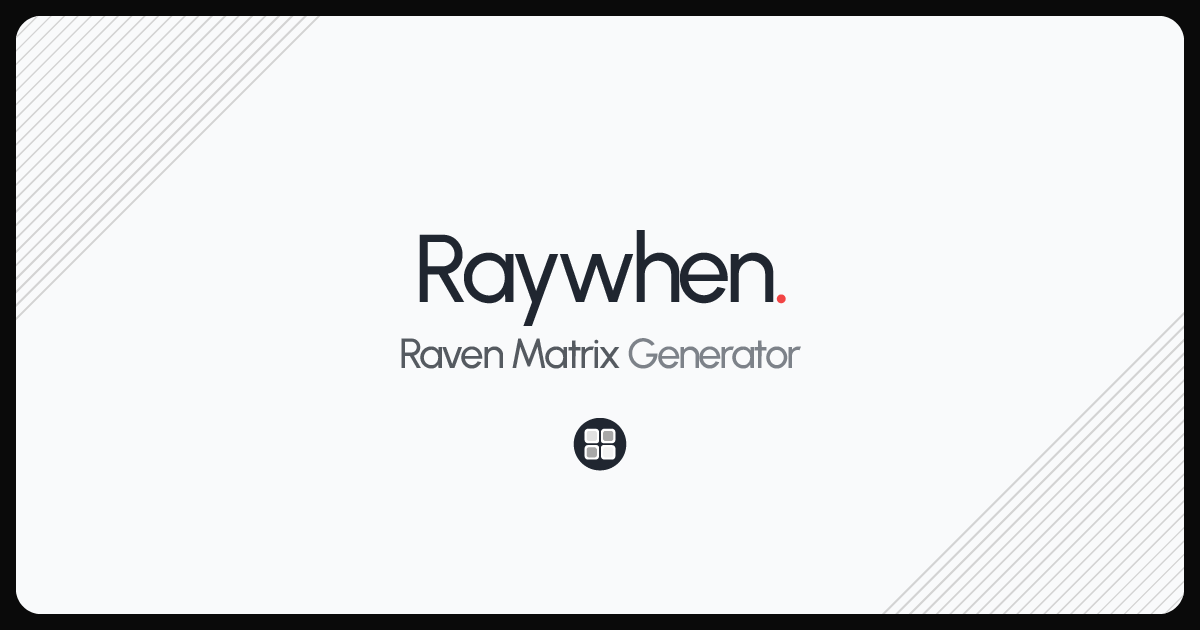
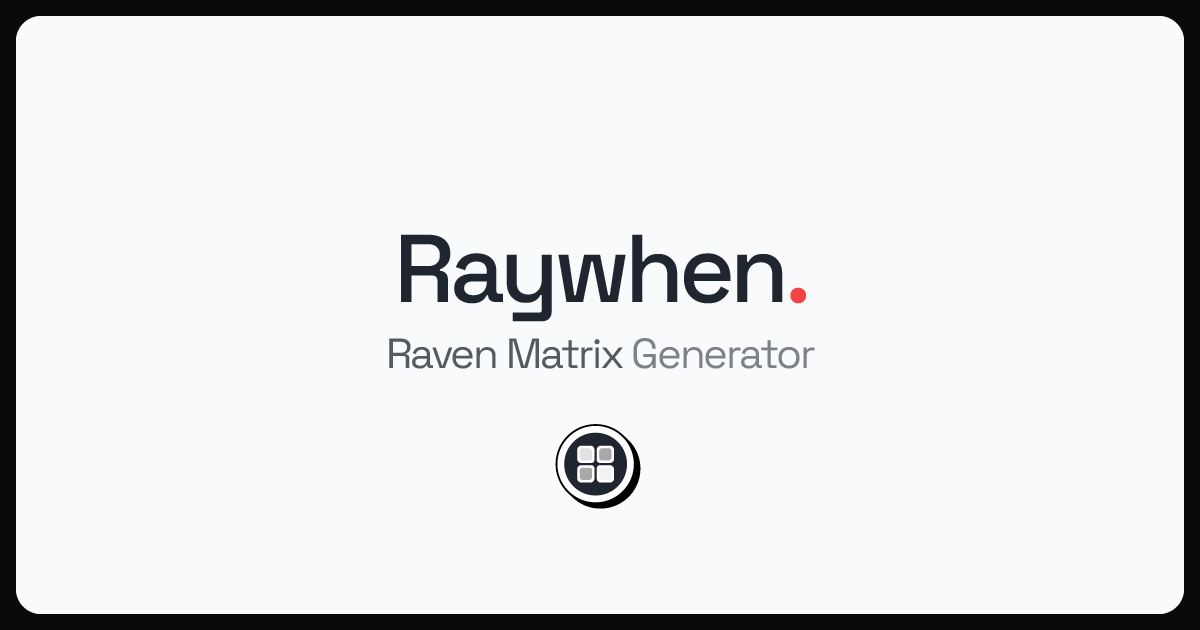
update: update Open Graph image

diff --git a/src/routes/test/+page.svelte b/src/routes/test/+page.svelte
@@ -270,10 +270,12 @@
 </script>
 
 <svelte:head>
-	<title>Test | Raywhen</title>
+	<title>Test | Raywhen - A progressive raven matrix generator</title>
 	<meta
 		name="description"
-		content="Take a timed Raven's Progressive Matrix test with 10 questions across two difficulty levels." />
+		content="Take a timed Raven's Progressive Matrix test with 15 questions across two difficulty levels." />
+	<meta property="og:image" content="{page.url.origin}/ogimage.png" />
+	<meta property="og:url" content="{page.url.origin}/test" />
 </svelte:head>
 
 <EnlargeModal
@@ -301,7 +303,7 @@
 
 			<div class="border-2 border-oat bg-white p-8 md:p-10">
 				<h1 class="mb-1 text-2xl font-semibold tracking-[-0.64px] md:text-3xl">Raywhen Test</h1>
-				<p class="mb-8 text-sm text-warm-silver">10 questions · 15 minutes</p>
+				<p class="mb-8 text-sm text-warm-silver">15 questions · 15 minutes</p>
 
 				<div class="flex flex-col gap-5">
 					<!-- Name -->

diff --git a/src/lib/engine/testGenerator.js b/src/lib/engine/testGenerator.js
@@ -351,7 +351,7 @@ export function generateTest(seed) {
 		}
 	}
 
-	// Shuffle all 10 questions
+	// Shuffle all 15 questions
 	const shuffled = seededShuffle(questions, rng).map((q, i) => ({
 		...q,
 		number: i + 1
